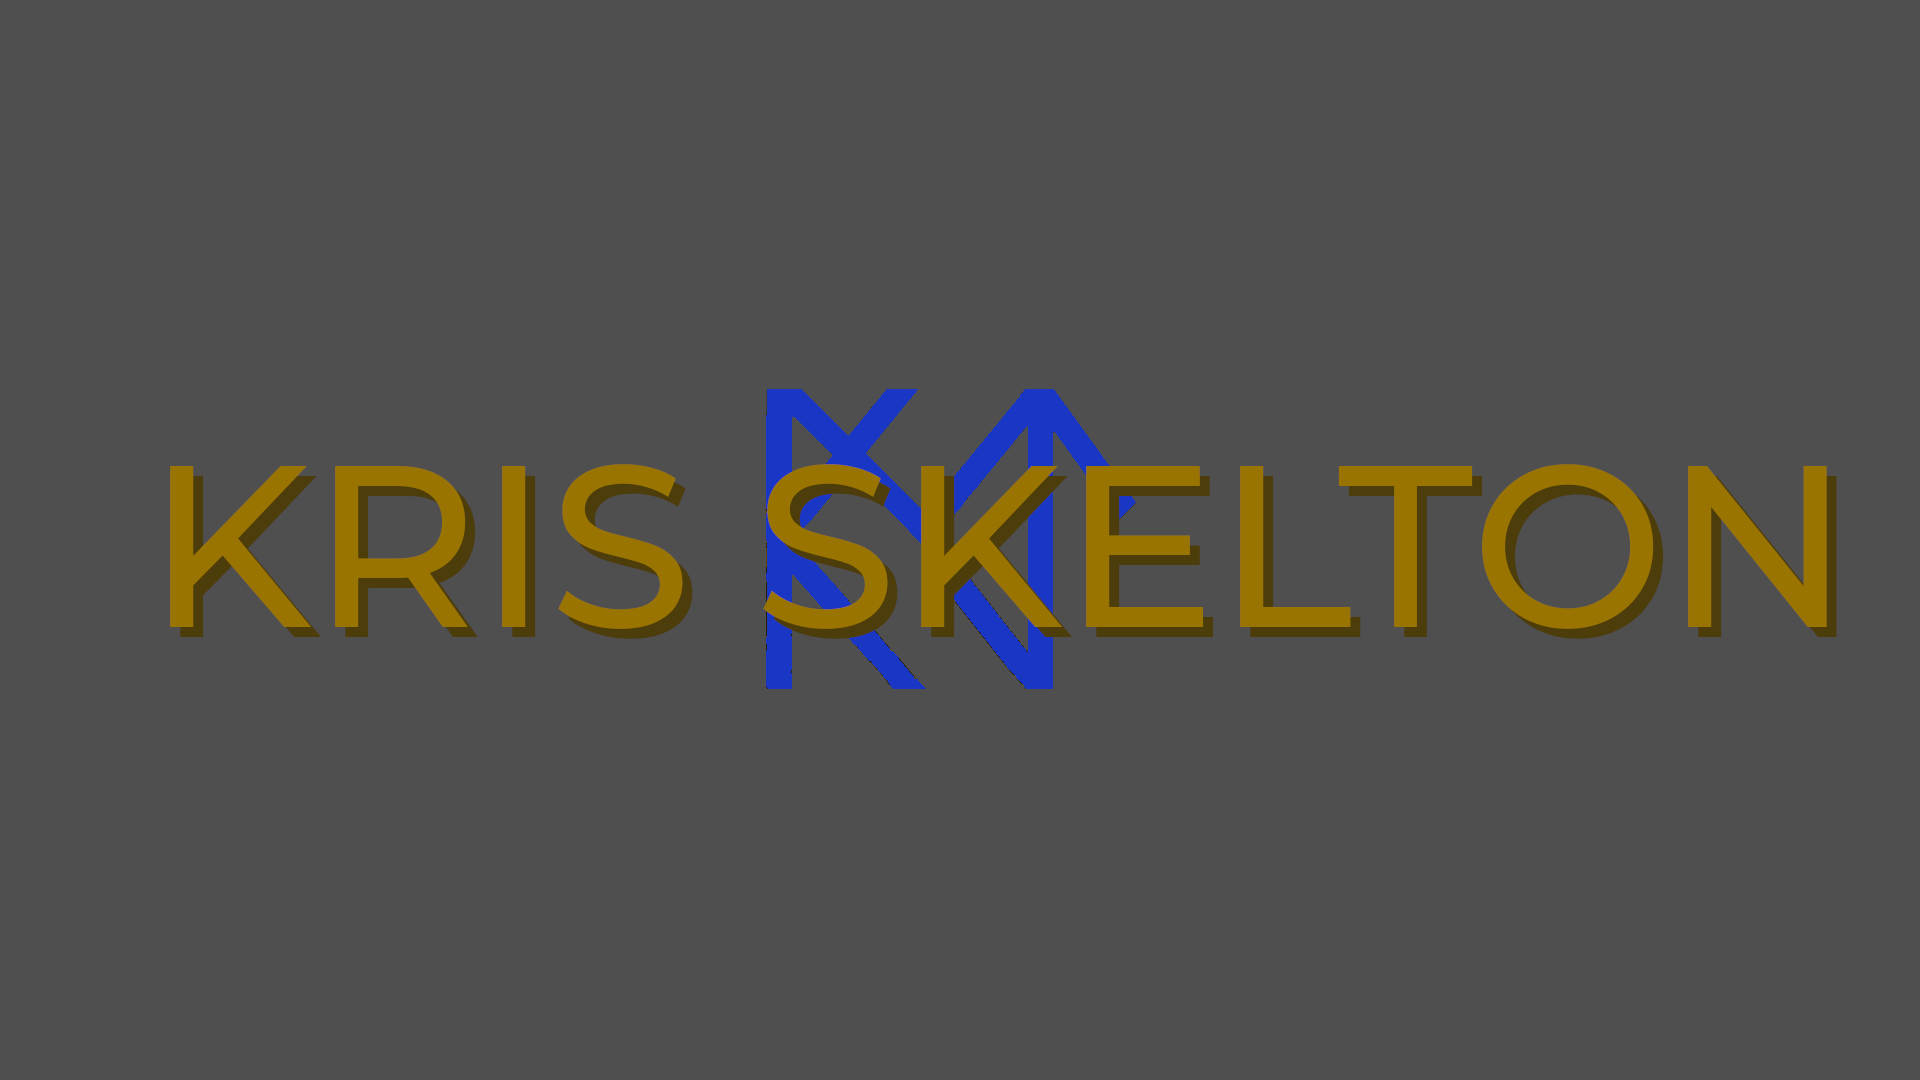
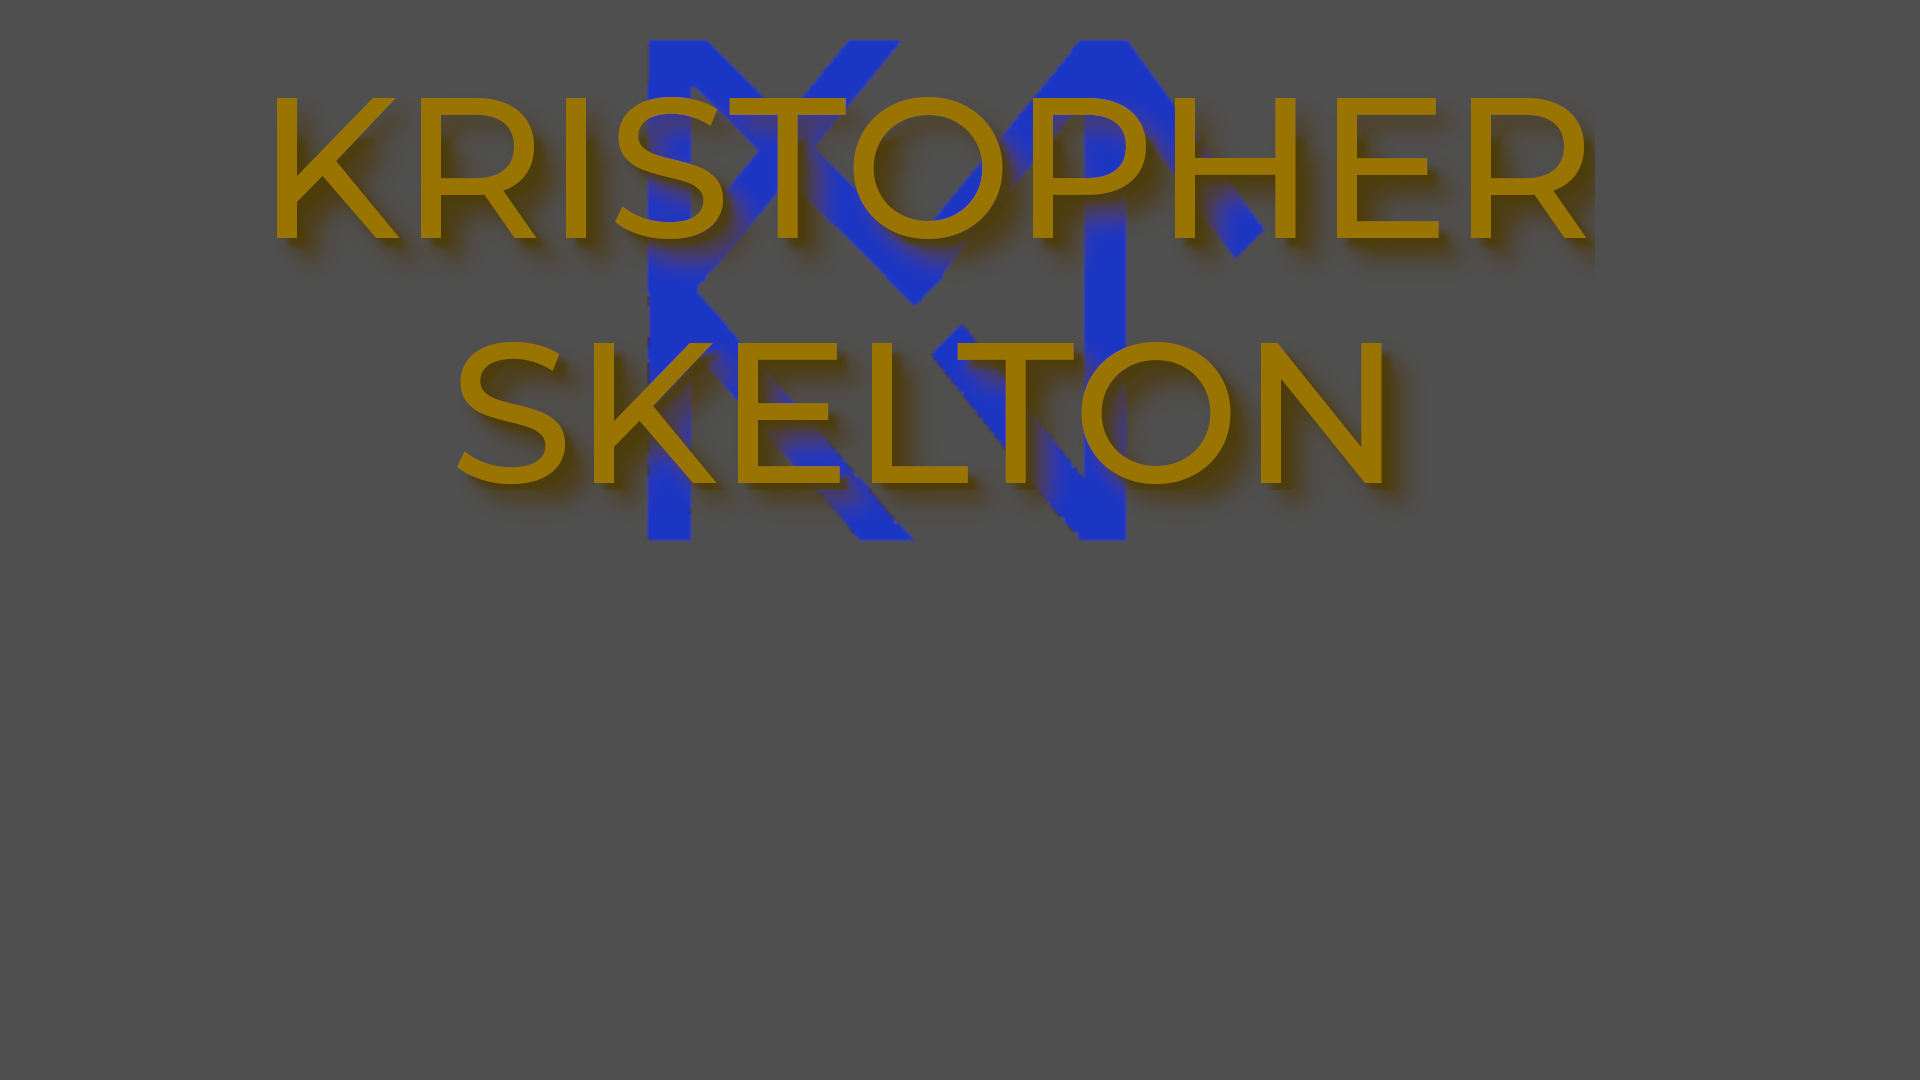
fixed jQuery slide jitter. Another header change. Updated media queries.

Changed region(s): [[0.0625, 0.0306, 0.9688, 0.6417]]

diff --git a/css/panels.css b/css/panels.css
@@ -25,12 +25,6 @@
   flex-direction: column;
 }
 
-
-.panel1 { background-image:url(../assets/flaming_geyser_park.jpg); }
-.panel2 { background-image:url(../assets/coal_creek_park_bridge.jpg); }
-.panel3 { background-image:url(../assets/teneriffe_falls.jpg); }
-.panel4 { background-image:url(../assets/cassiopeia_night_day.jpg); }
-
 /* Flex Items */
 .panel > p {
   margin:0;
@@ -79,6 +73,10 @@
   transform: translateY(0);
 }
 
+.panel1 { background-image:url(../assets/flaming_geyser_park.jpg); }
+.panel2 { background-image:url(../assets/coal_creek_park_bridge.jpg); }
+.panel3 { background-image:url(../assets/teneriffe_falls.jpg); }
+
 /* panel images */
 .panel1 > a:first-of-type {
   background-image: url(../assets/yt_logo_rgb_dark.png);
@@ -87,6 +85,8 @@
   background-image: url(../assets/WordPress-logotype-standard.png);
   background-color: rgba(255, 255, 255, 0.5)
 }
+
+/* PANEL 2 */
 
 .panel2 > a:nth-of-type(1) {
   background-image: url(../assets/github-logo.png);
@@ -108,7 +108,7 @@
   background-image: url('https://www.codewars.com/users/KMSkelton/badges/large');
 }
 
-
+/* PANEL 3 */
 .panel3 {
   flex: 1;
   display: grid;

diff --git a/CSS/mediaQueries.css b/CSS/mediaQueries.css
@@ -18,6 +18,7 @@
       font-size: 1.1em;
     }
     header {
+      background: url("../images/header.png") no-repeat center center fixed;
       background-color: #4f4f4f;
       background-size: 100%;
       background-position: center;
@@ -131,6 +132,10 @@
     .panel.open-active.panel4 {
       margin-left: -50px;
     }
+    #RWDtext {
+      padding-top: 11.5rem;
+      padding-bottom: 5rem;
+    }  
   }
   @media screen and (min-width: 600px) {
     h1 {
@@ -216,6 +221,12 @@
     }
   }
   @media screen and (min-width: 750px) {
+    header {
+      background: url("../images/header2.png") no-repeat center center fixed;
+    }
+    #RWDtext {
+      padding: 12rem 0;
+    }
     .img1 {
       margin: none;
       left: 10em;
@@ -248,7 +259,6 @@
     }
     main {
       height: 20%;
-      padding: 2em 0;
     }
     .aboutMain {
       height: 25em;

diff --git a/CSS/layout.css b/CSS/layout.css
@@ -1,6 +1,8 @@
 /*This is for positioning and sizing*/
 header {
+  border: 2px solid transparent;
   height: 30em;
+  padding-bottom: 5%;
 }
 .aboutHeader {
   height: 30em;
@@ -10,15 +12,15 @@ header h1 {
   z-index: 10;
 }
 #RWDtext {
+  background: #4f4f4f;
   font-family: "Montserrat", sans-serif;
   position: relative;
-  padding-top: 10rem;
   text-align: center;
   z-index: 10;
 }
 main {
   display: block;
-  margin: 0 1%;
+  margin: 0% 1%;
 }
 .aboutMain{
   padding-top: 3em;

diff --git a/CSS/module.css b/CSS/module.css
@@ -1,8 +1,4 @@
 /*This is for fonts and colors*/
-  header {
-    background: url("../images/header.png") no-repeat center center fixed;
-    /* background-position: top; */
-  }
   header h1 {
     font-family: "Montserrat";
     text-align: center;
